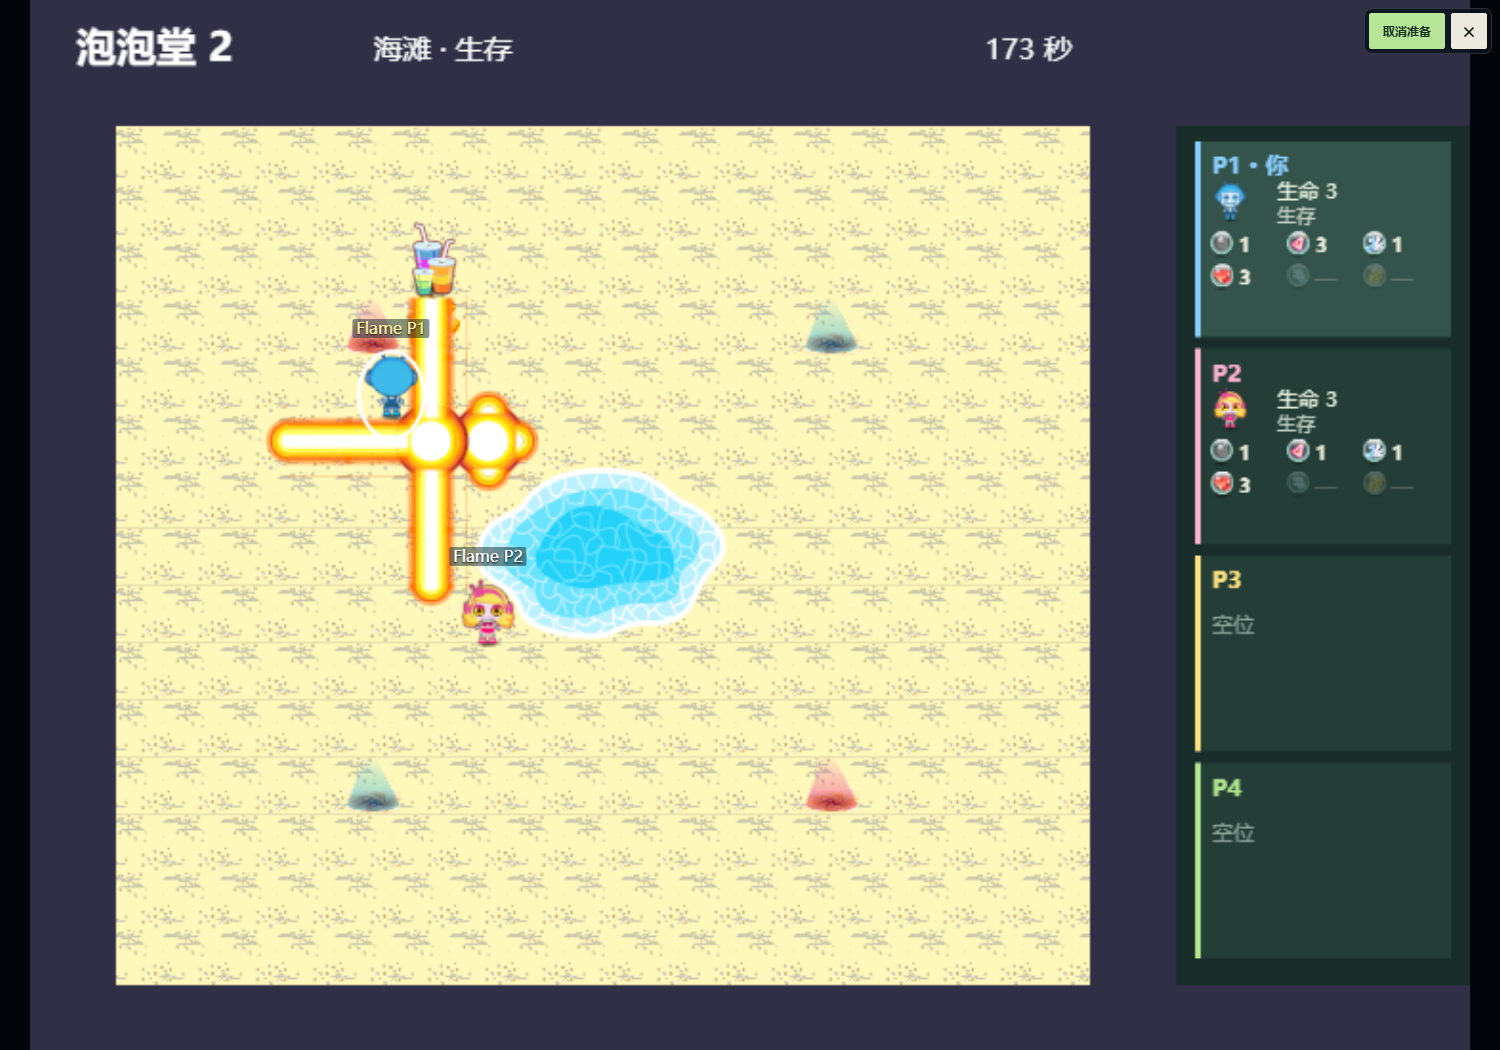
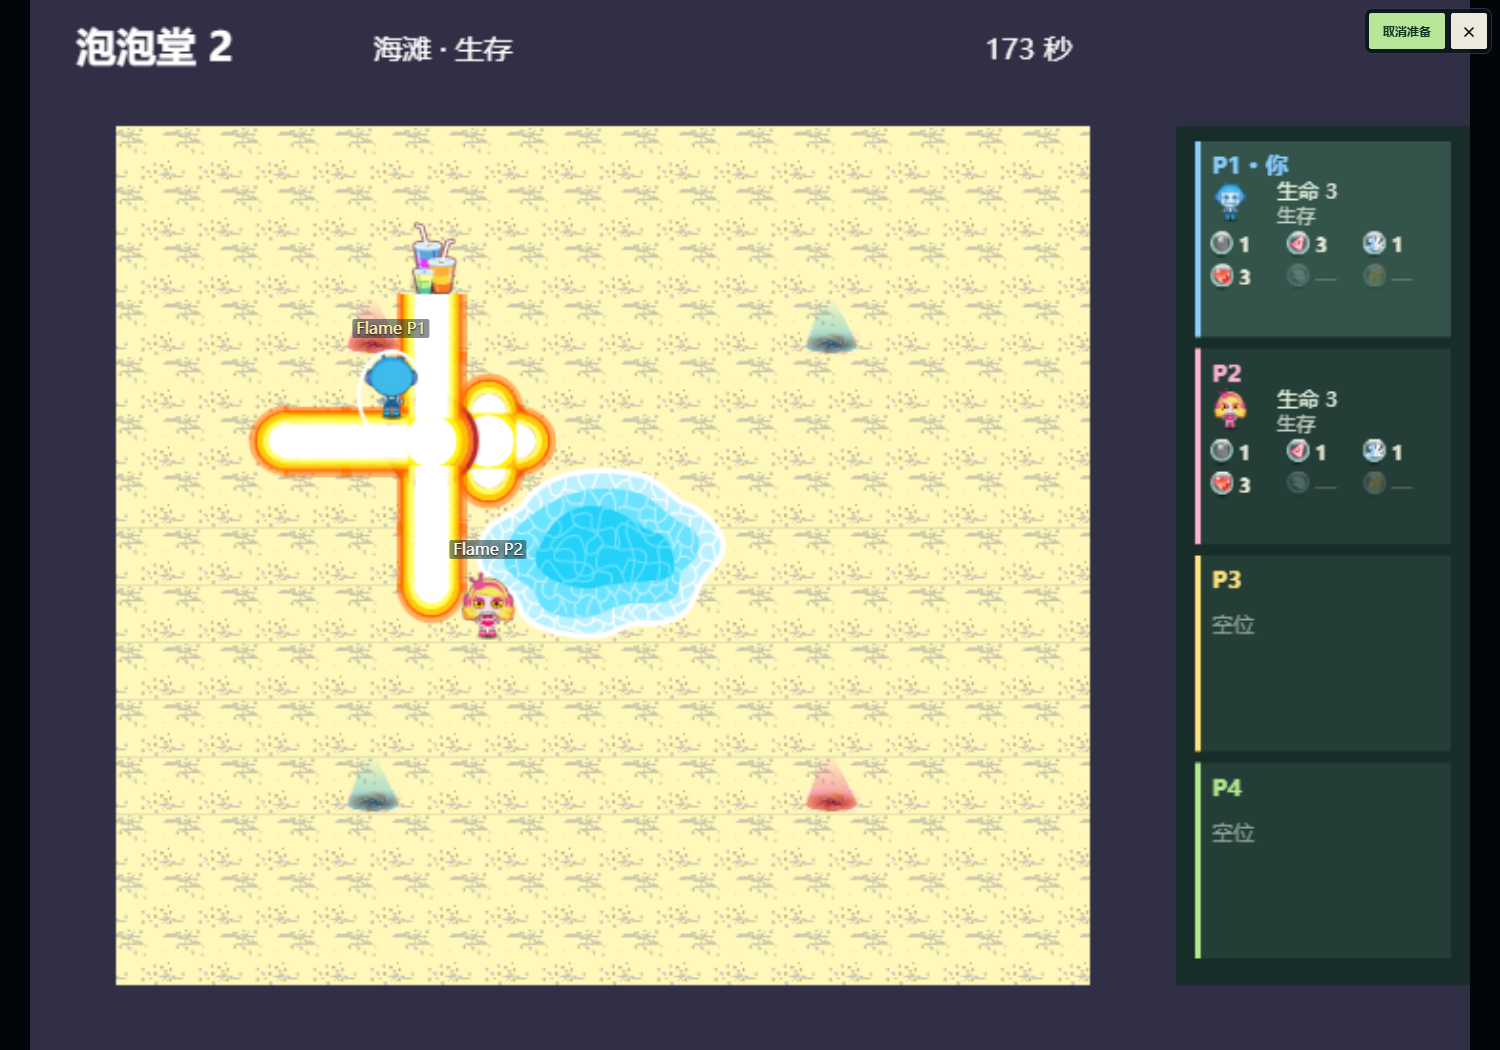
Preload native bombs and flame sheets before a match

Changed region(s): [[0.1533, 0.2743, 0.368, 0.64]]

diff --git a/src/expanded/bomb2.ts b/src/expanded/bomb2.ts
@@ -360,7 +360,7 @@ export function valid(value:unknown):value is State {
   return Array.isArray(s.hazards)&&s.hazards.length===map.hazards.length&&s.hazards.every((h:any,i:number)=>JSON.stringify(h)===JSON.stringify(map.hazards[i]));
 }
 const images=new Map<string,HTMLImageElement>();
-let flamePreload=false;
+let combatPreload=false;
 function asset(name:string):HTMLImageElement {let img=images.get(name);if(!img){img=new Image();img.src='/expanded/assets/bomb2/'+name+'.png';images.set(name,img);}return img;}
 function draw(ctx:CanvasRenderingContext2D,name:string,x:number,y:number,w:number,h:number):boolean {const img=asset(name);if(img.complete&&img.naturalWidth){ctx.drawImage(img,x,y,w,h);return true;}return false;}
 function timeline(ctx:CanvasRenderingContext2D,name:string,frame:number,x:number,y:number,feet=false):boolean {
@@ -372,7 +372,7 @@ export function render(canvas:HTMLCanvasElement,s:State|null,seat:number|null):v
   localSeat=seat;
   const ctx=canvas.getContext('2d')!;const cell=30,left=45,top=66;ctx.clearRect(0,0,BOMB2_CANVAS_WIDTH,550);ctx.fillStyle='#302f46';ctx.fillRect(0,0,BOMB2_CANVAS_WIDTH,550);
   ctx.fillStyle='#fff';ctx.font='bold 21px system-ui';ctx.fillText('泡泡堂 2',24,32);if(!s)return;
-  if(!flamePreload){for(const name of Object.keys(FLAME_ART.timelines))asset('native-flame-'+name);flamePreload=true;}
+  if(!combatPreload){for(const name of Object.keys(BOMB_ART.timelines))asset('native-bomb-'+name);for(const name of Object.keys(FLAME_ART.timelines))asset('native-flame-'+name);combatPreload=true;}
   ctx.font='15px system-ui';ctx.fillText(`${THEMES[s.theme]} · ${['生存','击杀 10','金币 10','占地 50'][MODES.indexOf(s.mode)]}`,180,31);ctx.fillText(`${Math.max(0,Math.ceil((ROUND_TICKS-s.tick)/HZ))} 秒`,500,31);
   draw(ctx,'background-'+s.theme,left,top,WIDTH*cell,HEIGHT*cell);
   for(const burst of s.crateBursts){

diff --git a/public/authority/game.js b/public/authority/game.js
@@ -2449,7 +2449,7 @@
     return Array.isArray(s.hazards) && s.hazards.length === map.hazards.length && s.hazards.every((h, i) => JSON.stringify(h) === JSON.stringify(map.hazards[i]));
   }
   var images = /* @__PURE__ */ new Map();
-  var flamePreload = false;
+  var combatPreload = false;
   function asset2(name) {
     let img2 = images.get(name);
     if (!img2) {
@@ -2485,9 +2485,10 @@
     ctx.font = "bold 21px system-ui";
     ctx.fillText("\u6CE1\u6CE1\u5802 2", 24, 32);
     if (!s) return;
-    if (!flamePreload) {
+    if (!combatPreload) {
+      for (const name of Object.keys(bomb2_bomb_art_default.timelines)) asset2("native-bomb-" + name);
       for (const name of Object.keys(bomb2_blast_art_default.timelines)) asset2("native-flame-" + name);
-      flamePreload = true;
+      combatPreload = true;
     }
     ctx.font = "15px system-ui";
     ctx.fillText(`${THEMES[s.theme]} \xB7 ${["\u751F\u5B58", "\u51FB\u6740 10", "\u91D1\u5E01 10", "\u5360\u5730 50"][MODES.indexOf(s.mode)]}`, 180, 31);

diff --git a/public/authority-room.html b/public/authority-room.html
@@ -6,7 +6,7 @@
   <meta name="theme-color" content="#10272b">
   <title>在线联机 - ArcadeOnline</title>
   <link rel="stylesheet" href="/style.css">
-  <link rel="stylesheet" href="/authority/style.css?v=bomb-blasts-20261024">
+  <link rel="stylesheet" href="/authority/style.css?v=bomb-blasts-preload-20261024">
 <link rel="stylesheet" href="/theme.css?v=soft-faces-20261022">
   <script src="/arcade.js"></script>
 </head>
@@ -54,6 +54,6 @@
     </div>
     <details class="panel authority-metrics"><summary>连接诊断</summary><dl><dt>最近状态更新</dt><dd id="metrics-age">等待同步</dd><dt>本地输入到绘制</dt><dd id="metrics-predict">操作后采样</dd><dt>收发数据</dt><dd id="metrics-bandwidth">—</dd></dl></details>
   </main>
-  <script src="/authority/game.js?v=bomb-blasts-20261024"></script>
+  <script src="/authority/game.js?v=bomb-blasts-preload-20261024"></script>
 </body>
 </html>

diff --git a/BOMB_RESTORATION.md b/BOMB_RESTORATION.md
@@ -8,6 +8,8 @@
 
 2026-10-24 火焰补正：泡泡堂2不再轮播外层9个方向帧，改为原中心/中段/末端/地雷中心四段动画（19/18/18/19帧），保留外层方向矩阵、原定位和炸弹爆炸时的连续像素原点。每枚爆炸的图块、出生和结束tick由服务器保存，支持完整/增量恢复。火焰在箱子/登记中的其他炸弹/矿车处停止；连锁炸弹按自己的威力提供中心和射线；未登记的飞行炸弹不挡射线。普通爆炸中心直到16 tick结束才释放碰撞，地雷保持可穿行；炮弹爆炸不增加固定炸弹格。地雷原宽中心动画绘制斜角效果，四个斜角格按原逻辑燃烧/破箱，固定障碍保留。185项单测与实际双人普通/连锁/地雷/全屏专项通过。
 
+三种炸弹和四种火焰图在等待阶段一并预加载，浏览器专项通过资源在准备开局前到达的检查；减少首次使用才发起请求造成的绘制等待。首轮公网首枚炸弹绘制等待曾超时，带实际绘制记录复测通过，未据此断言超时根因。最终上线/公网结果见部署记录。
+
 2026-10-24 用户反馈修复：泡泡堂1手套不再推动已经滑行的炸弹。此前仅检查手套冷却/前方空间，第二名玩家可在同一tick把炸弹再次位移并改向；现以炸弹的 `slide` 状态拒绝该操作，不扣冷却、不重置滑行计数/引信、不重复播放推弹声；碰撞后本tick已进入爆炸的炸弹同样拒绝推动。新增同tick双人复现与4滑行方向×4接近方向、碰撞待爆帧回归；14 tick冷却继续保留。当前总单测176项通过。
 
 本批已于13:02完成公网验证，实现 `99dc8a8`。64文件哈希与发布内容一致，两款原声音/放弹/恢复及泡泡堂2原炸弹画面/自然8秒传送带转向通过；手套修复前后权威核心复现、实际双人过程及公网记录见 [本批证据](docs/fidelity-audit/bomb2-conveyor-2026-10-24/)。准确发布包/运行包哈希与回滚路径见部署记录。
